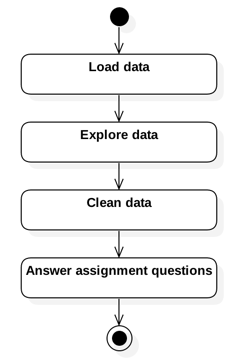
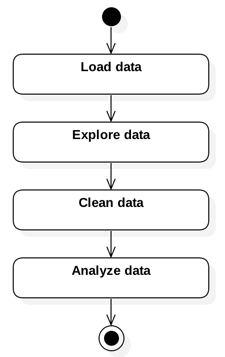
Adding introductory paragraphs, overview of the analysis.

Changed region(s): [[0.0311, 0.0, 0.9644, 0.986]]

diff --git a/markdown/repData-stormAnalysisGuide.md b/markdown/repData-stormAnalysisGuide.md
@@ -15,6 +15,31 @@ A number of articles to help students complete the assignment have been posted b
 
 In *StormData Analysis: A Comprehensive Guide*, we will provide a "big picture" review of the four problems articulated above so students can spend more of their time working with the data, and less of their time running into the same roadblocks that have faced past students.
 
+# The Assignment: It Looks So Simple...
+
+The course project assignment instructions make the task seem simple, asking students to answer two basic questions about the storm data.
+
+> Your data analysis must address the following questions:
+>
+> 1. Across the United States, which types of events (as indicated in the  variable) are most harmful with respect to population health?<br><br>
+>
+> 2. Across the United States, which types of events have the greatest economic consequences?
+
+For students who have completed *Exploratory Data Analysis*, they are well equipped to conduct a basic descriptive analysis of the data.
+
+Also, for students who have completed *Getting and Cleaning Data* as well, the students have an understanding of a basic process to conduct a descriptive analysis, including the following steps.
+<table>
+<tr><td>
+<img src="./images/repdata-stormDataGuide01.png"></td><td>1. Extract data from the compressed file, and load it into an R data frame.<br><br>
+2. Run basic R functions against the data to understand its features, and determine the types of cleaning and data transformations needed to restructure data in order to answer the research questions.<br><br>
+3. Write R code to clean and transform the data.<br><br>
+4. Analyze the data, answering the questions required for the assignment, and support the analysis with relevant graphics and statistics.  </td></tr>
+</table>
+
+The instructions include access to the [data file](https://d396qusza40orc.cloudfront.net/repdata%2Fdata%2FStormData.csv.bz2), a [codebook](https://d396qusza40orc.cloudfront.net/repdata%2Fpeer2_doc%2Fpd01016005curr.pdf), and a [frequently asked questions web page](https://d396qusza40orc.cloudfront.net/repdata%2Fpeer2_doc%2FNCDC%20Storm%20Events-FAQ%20Page.pdf) from the NOAA.
+
+
+
 # Problem 1: Changing Data & Collection methods
 
 *
